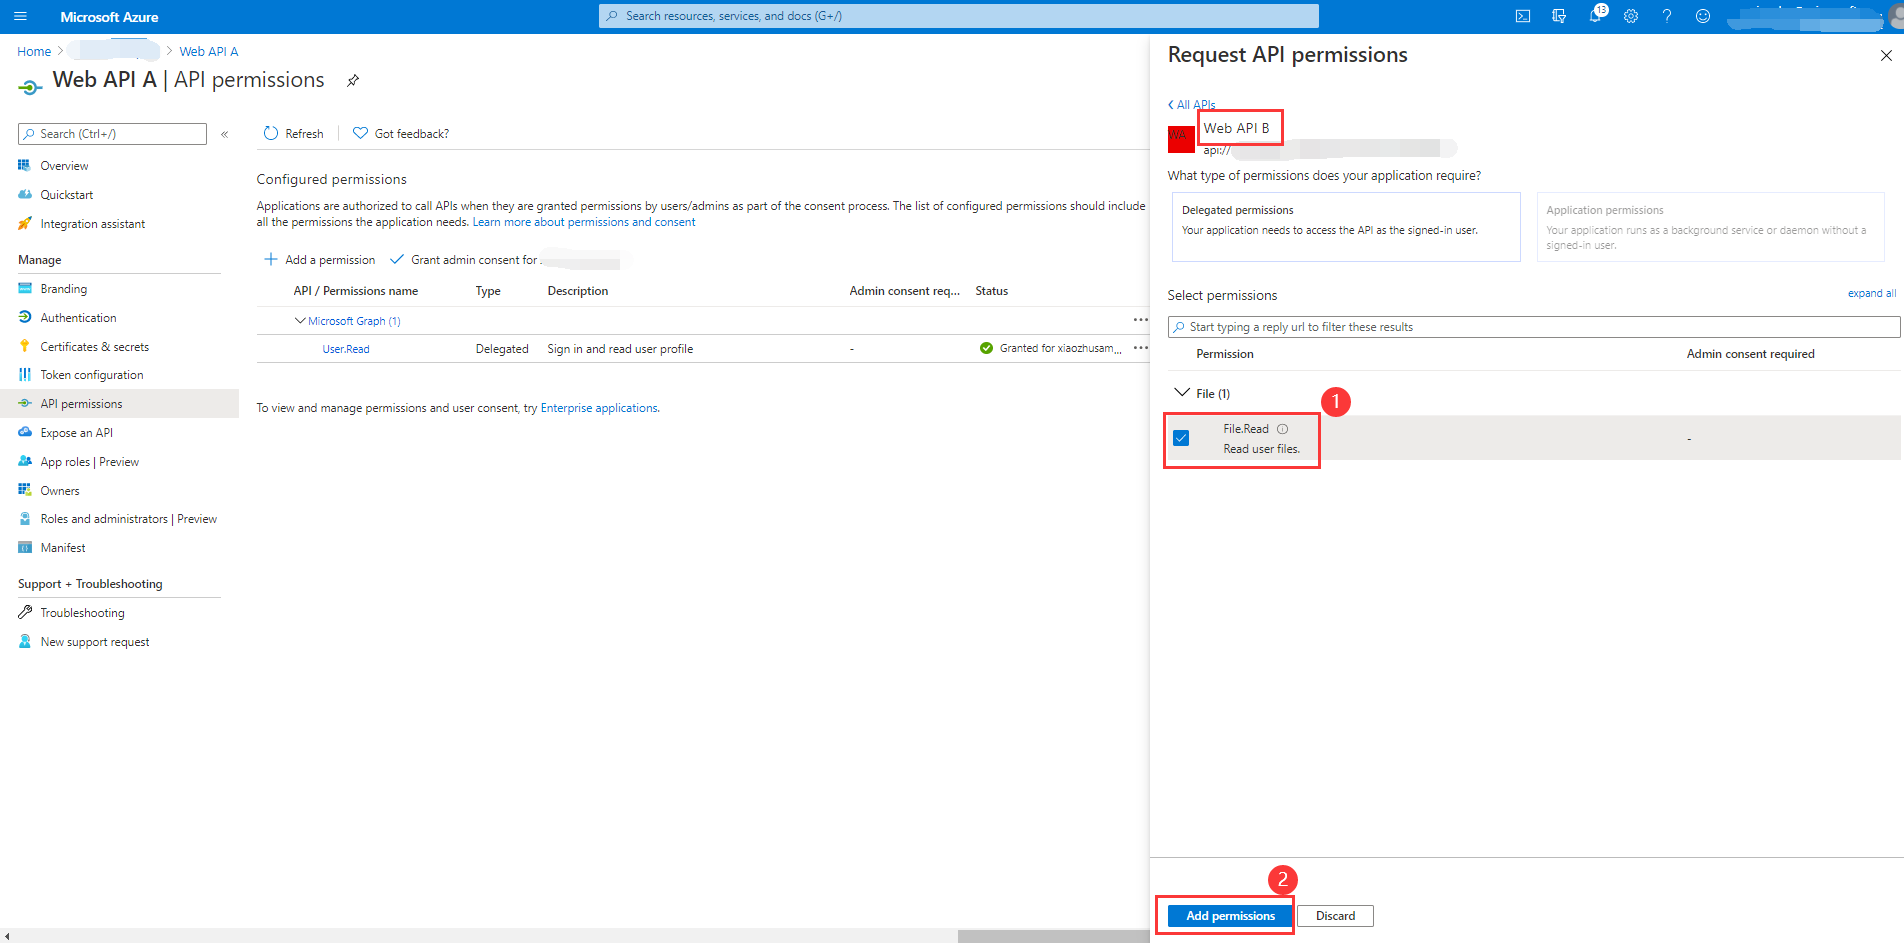
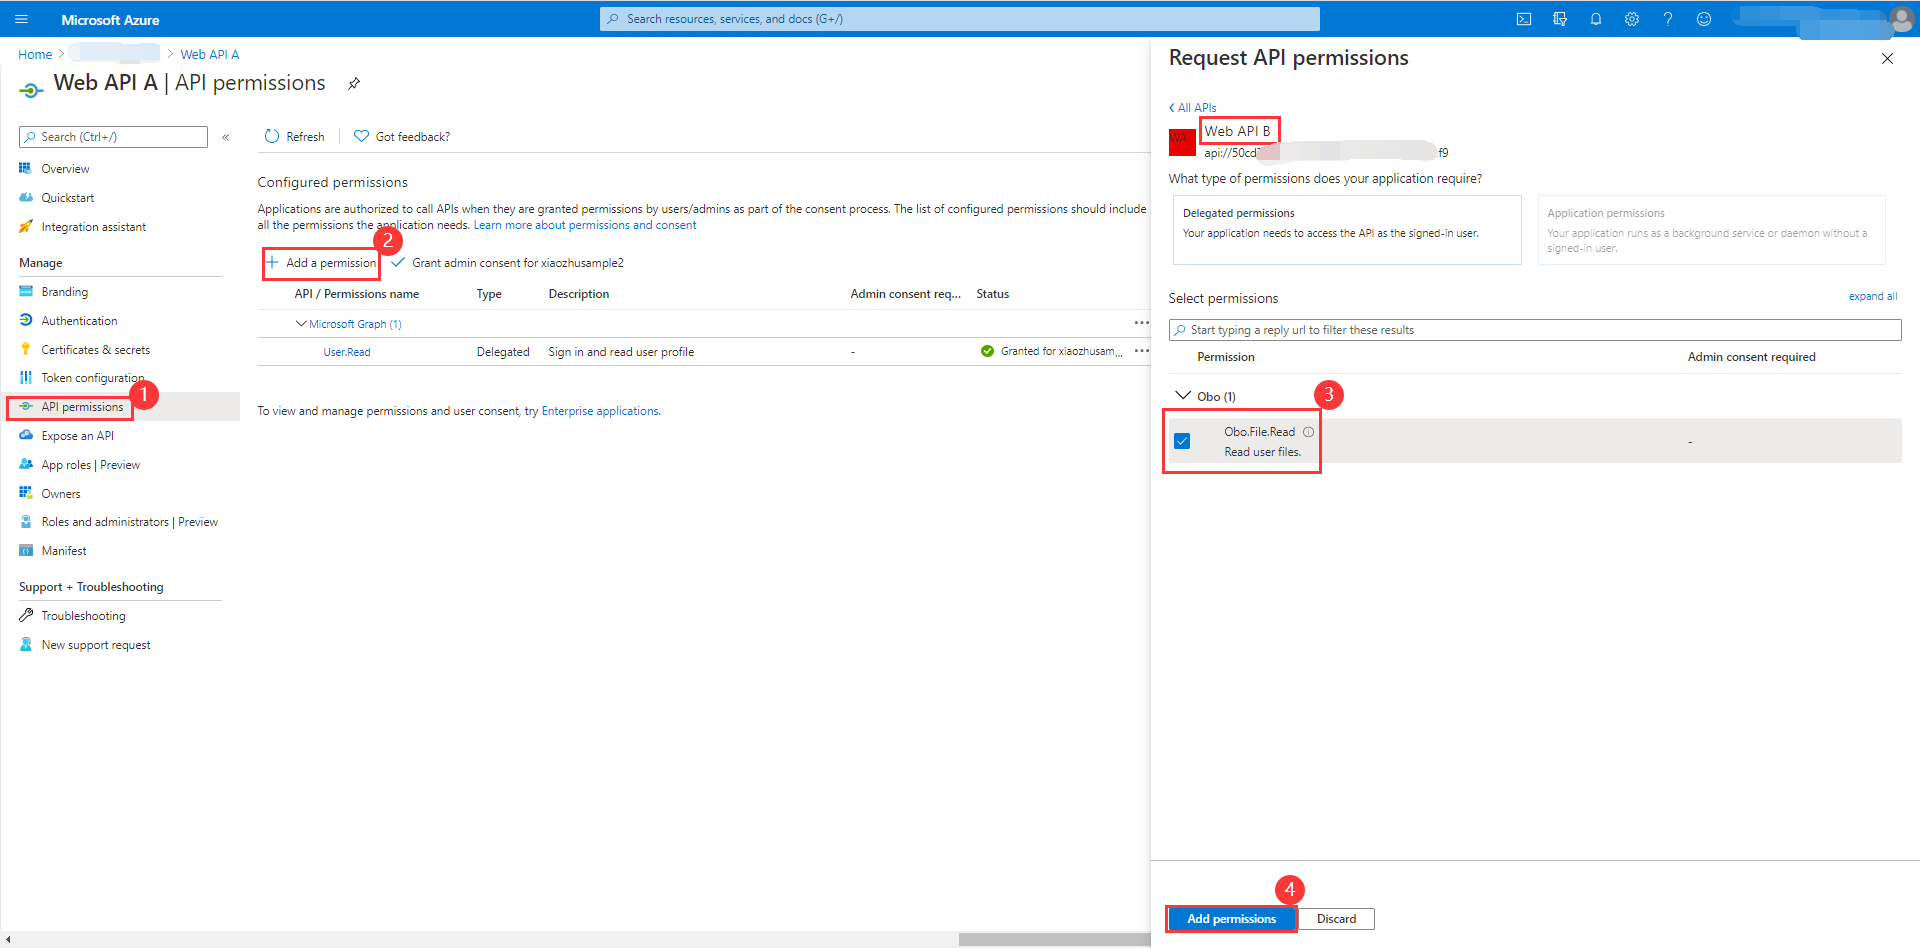
Update the resource-server-obo README.md file.

diff --git a/sdk/spring/azure-spring-boot-samples/azure-spring-boot-sample-active-directory-resource-server-obo/src/main/java/com/azure/spring/sample/aad/controller/SampleController.java b/sdk/spring/azure-spring-boot-samples/azure-spring-boot-sample-active-directory-resource-server-obo/src/main/java/com/azure/spring/sample/aad/controller/SampleController.java
@@ -41,7 +41,7 @@ public class SampleController {
      * @return Response with graph data
      */
     @GetMapping("call-graph-only")
-    @PreAuthorize("hasAuthority('SCOPE_ResourceAccessGraph.Read')")
+    @PreAuthorize("hasAuthority('SCOPE_Obo.Graph.Read')")
     public String callGraphOnly() {
         Authentication principal = SecurityContextHolder.getContext().getAuthentication();
         RequestAttributes requestAttributes = RequestContextHolder.currentRequestAttributes();
@@ -57,7 +57,7 @@ public class SampleController {
      * @return Response with graph data
      */
     @GetMapping("call-graph-only-with-annotation")
-    @PreAuthorize("hasAuthority('SCOPE_ResourceAccessGraph.Read')")
+    @PreAuthorize("hasAuthority('SCOPE_Obo.GraphAndObo.File.Read')")
     public String callGraphOnlyWithAnnotation(@RegisteredOAuth2AuthorizedClient("graph") OAuth2AuthorizedClient graph) {
         return callMicrosoftGraphMeEndpoint(graph);
     }
@@ -68,7 +68,7 @@ public class SampleController {
      * @param custom authorized client for Custom
      * @return Response Graph and Custom data.
      */
-    @PreAuthorize("hasAuthority('SCOPE_File.Read')")
+    @PreAuthorize("hasAuthority('SCOPE_Obo.File.Read')")
     @GetMapping("call-graph-and-custom-resources")
     public String callGraphAndCustomResources(
         @RegisteredOAuth2AuthorizedClient("graph") OAuth2AuthorizedClient graph,

diff --git a/sdk/spring/azure-spring-boot-samples/azure-spring-boot-sample-active-directory-resource-server-obo/README.md b/sdk/spring/azure-spring-boot-samples/azure-spring-boot-sample-active-directory-resource-server-obo/README.md
@@ -7,7 +7,7 @@
 Assume that the user has been authenticated on an application using the OAuth 2.0 authorization code grant flow or another login flow. At this point, the application has an access token for API A (token A) with the user's claims and consent to access the middle-tier web API (API A). Now, API A needs to make an authenticated request to the downstream web API (API B).
 The steps that follow constitute the OBO flow and are explained with the help of the following diagram.
 
-![OBO flow](docs/image-protocols-oauth-on-behalf-of-flow.png)
+![OBO flow](docs/image-aad-obo-flow.png)
 1. The client application makes a request to API A with token A (with an aud claim of API A).
 2. API A authenticates to the Microsoft identity platform token issuance endpoint and requests a token to access API B.
 4. The Microsoft identity platform token issuance endpoint validates API A's credentials along with token A and issues the access token for API B (token B) to API A.
@@ -56,9 +56,9 @@ We need to ensure that this [environment checklist][ready-to-run-checklist] is c
 ```
 
 ### Configure your middle-tier Web API A
-1. You can follow *Web API A* sample to add `ResourceAccessGraph.Read`, `ResourceAccessGraphCustomResources.Read` scopes. Convention current application id url is `api://xxxxx-xxxx-xxxxxx`.(**NOTE**: In the **Web API A** `ResourceAccessGraph.Read`, `ResourceAccessGraphCustomResources.Read` scopes should be added to the **Web APP**.)![API Permissions](docs/image-resource-server-obo-add-scope.png)
+1. You can follow *Web API A* to add `Obo.Graph.Read`, `Obo.GraphAndObo.File.Read` scopes. The **Application ID URL** is generated by default.(**NOTE**: In the **Web API A** `Obo.Graph.Read`, `Obo.GraphAndObo.File.Read` scopes should be added to the **Web APP**.)![API Permissions](docs/image-resource-server-obo-add-scope.png)
 2. Select **API permissions** > **Add a permission** > **My APIs**, select *Web API B* application name. ![Select MyAPIs](docs/image-select-myapis.png)
-3. **Delegated permissions** is selected by default， Select **File** > **File.Read** permission, select **Add permission** to complete the process.![Add Permissions](docs/image-add-permissions.png)
+3. **Delegated permissions** is selected by default， Select **Obo_File** > **Obo_File.Read** permission, select **Add permission** to complete the process.![Add Permissions](docs/image-add-permissions.png)
 4. Add **Web API B** permissions to **Web API A** and grant admin consent.![API Permissions](docs/image-add-grant-admin-consent.png)
 
 See [OAuth 2.0 On-Behalf-Of flow] for more information about OBO.
@@ -91,7 +91,7 @@ mvn spring-boot:run
 ```
 
 ### Access the Web API A
-First, you need to obtain an access token to access Sample Web API A.
+First, you need to obtain an access token to access Web API A.
 - Web API A will Only call Graph resource. 
 ```shell script
 # Replace to valid access token.
@@ -102,7 +102,7 @@ Verify response:
 Graph response success.
 ```
 
-- Web API A will Only call Graph resource. 
+- Web API A will Only call Graph resource through annotation. 
 
 ```shell script
 # Replace to valid access token.
